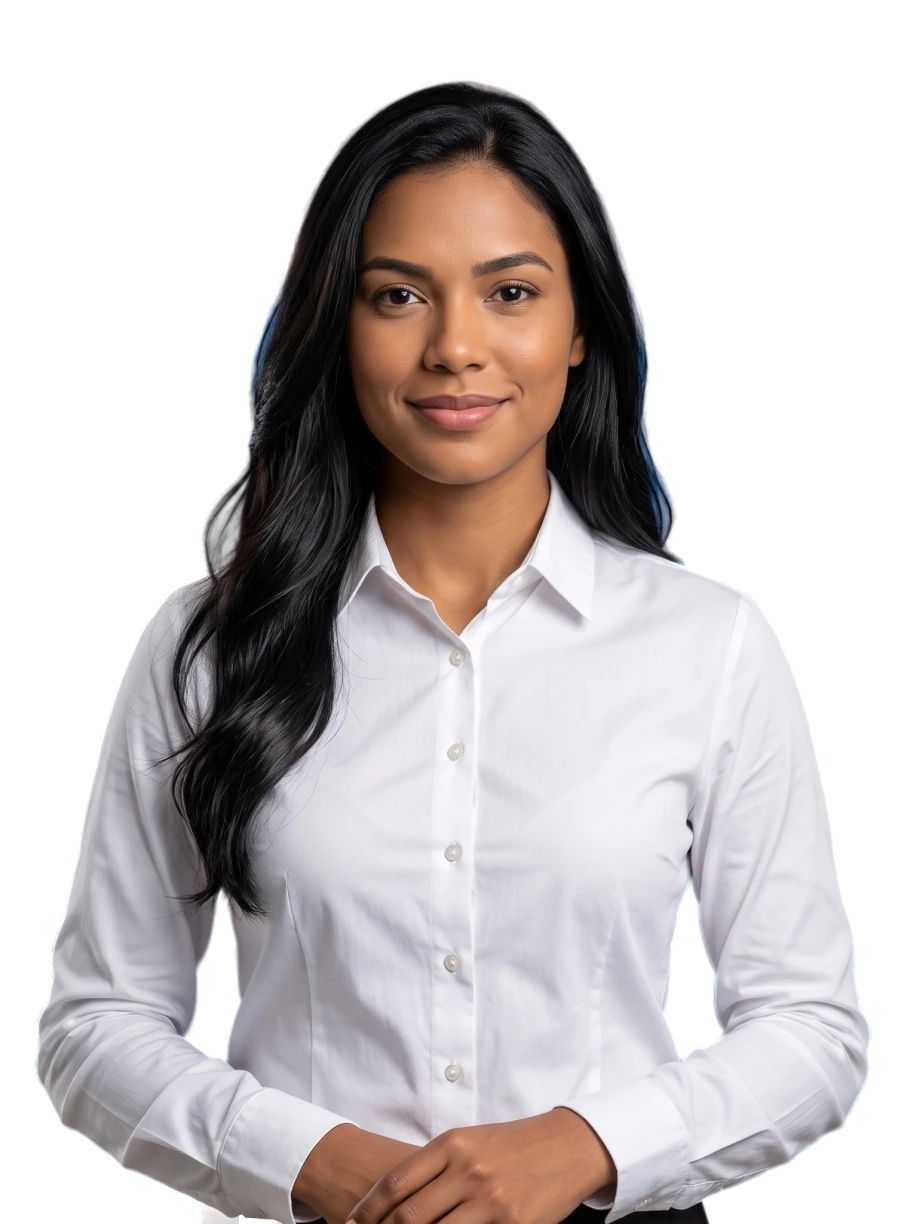
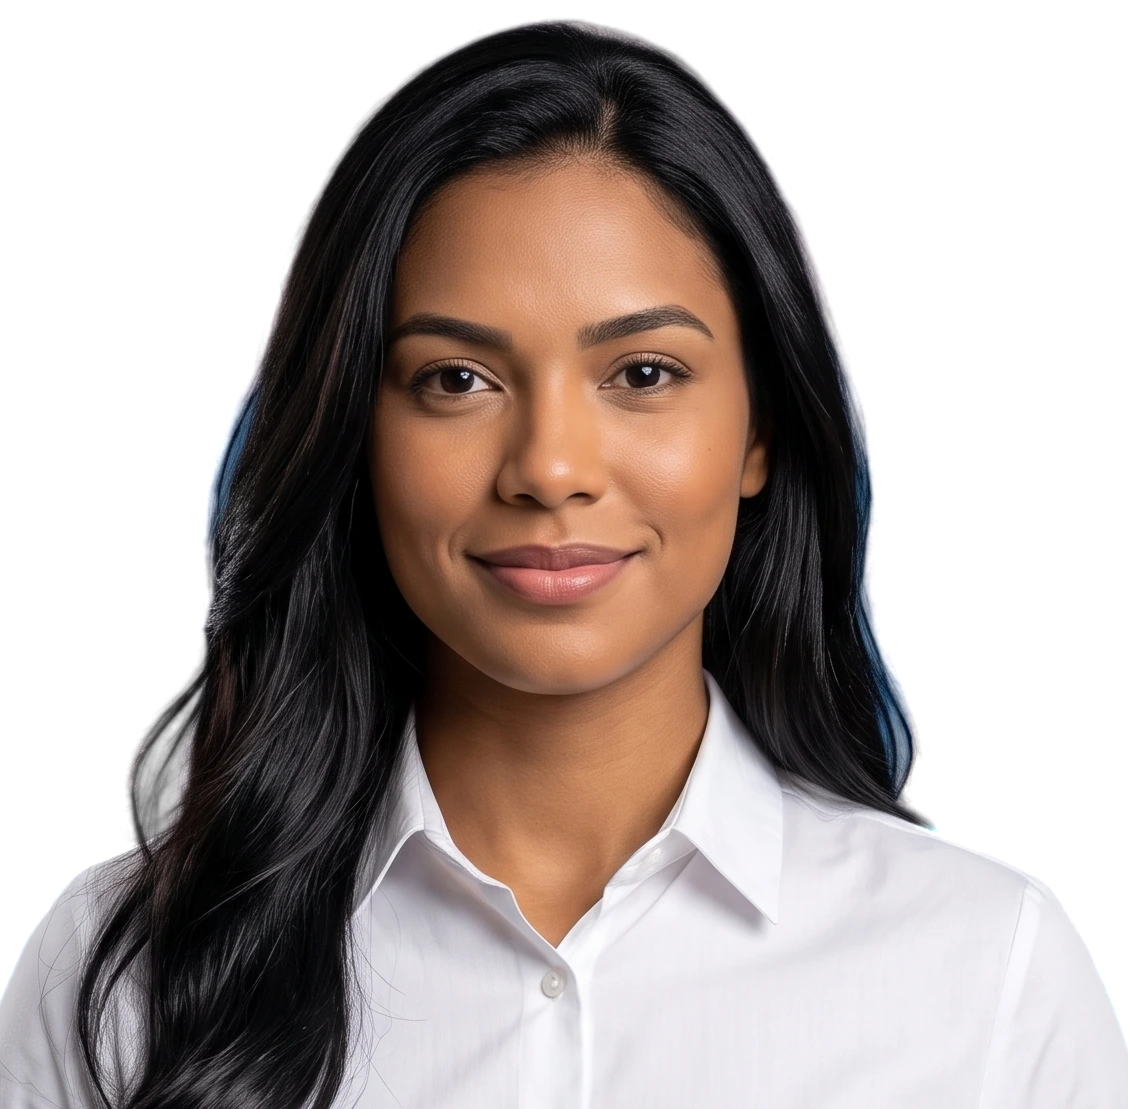
fix: foto do CLT no mesmo enquadramento das outras
No cartão ela aparecia menor que as vizinhas: o gerador enquadrou de mais longe,
e o rosto dela ocupava 21% da largura do quadro contra 27-28% das outras. Com
object-fit: contain isso vira, na tela, uma pessoa menor ao lado de três
maiores.

O alvo não é número cravado — sai da MEDIANA das fotos já publicadas, medida na
mesma execução. Três proporções precisam bater: largura do rosto sobre a largura
do quadro, proporção do quadro e margem acima da cabeça. Mediana e não média
porque o médico destoa (rosto 0,376 contra 0,272 e 0,280), e média de três com
um fora da curva persegue o fora da curva.

Resultado: 1128x1109, rosto 0,280 da largura, quadro 1,017, topo 0,020 — contra
0,272/0,280, 1,017/1,017 e 0,020/0,032 das referências.

O QUE ME FEZ ERRAR PRIMEIRO. Tentei medir a cabeça pela SILHUETA: largura da
linha, procurando o afunilamento do pescoço. Não funciona com cabelo comprido —
o perfil da silhueta da moça cresce sem parar do topo até os ombros, e o "pico
da cabeça" caiu a 981px do topo, já nos ombros. Pior: a versão anterior media
faixas em % da altura VISÍVEL da pessoa, então a régua mudava de lugar no corpo
a cada corte — medir e cortar com ela era perseguir o próprio rabo.

Quem pegou isso foi o conferidor: depois de cortar, o script confere as três
proporções contra a referência e morre em exit 3 se não baterem. Ele reprovou de
verdade ("cab 0.327 vs 0.381"), e foi essa reprovação que mostrou que o
instrumento é que estava errado, não o corte.
[…]

diff --git a/scripts/personas.py b/scripts/personas.py
@@ -76,11 +76,17 @@ TAM_GERADOR_ANTIGO = (1224, 1203)
 # conferi que a reestruturacao deste script nao mudou o resultado delas.
 MAX_LADO = 1224
 
-# `enquadrar` corta o VAZIO das laterais. As tres primeiras ja vinham com a
-# pessoa ocupando a largura toda; na do CLT ela ocupa 68% do quadro, e com
-# object-fit: contain quem manda no tamanho e a LARGURA do cartao — o quadro
-# vazio encolheria a pessoa. Sobra a mesma margem relativa das outras (~3%).
-MARGEM_ENQUADRE = 0.03
+# `enquadrar` iguala o ENQUADRAMENTO ao das outras fotos. A do CLT saiu de outro
+# gerador, de mais longe: a cabeca dela ocupava 33% da largura do quadro contra
+# 35-40% das outras, e com object-fit: contain isso aparece no cartao como uma
+# pessoa menor que as vizinhas.
+#
+# O alvo NAO e numero cravado: sai da media das fotos ja publicadas, medida na
+# mesma execucao. Tres proporcoes precisam bater — largura da cabeca sobre a
+# largura do quadro, proporcao do quadro, e a margem acima da cabeca. Depois de
+# cortar, o script CONFERE as tres e morre em exit 3 se nao baterem, porque
+# enquadramento que so parece certo e o defeito que estamos consertando.
+TOLERANCIA_ENQUADRE = 0.03
 TAM_ESTRELA = 100           # folgado: a estrela mede ~56px
 RAIO_OBRA = 66              # janela reconstruida
 CONTRASTE_MIN_ANTES = 2.0   # abaixo disso a mascara nao esta sobre a marca
@@ -168,6 +174,56 @@ def descontaminar(bgr, alpha):
     return np.where(franja, np.clip(F, 0, 255), C).astype(np.uint8)
 
 
+def metricas_pessoa(rgba):
+    """(topo da cabeca, largura do ROSTO, centro x do rosto), em pixels.
+
+    O tamanho do rosto e o que decide se duas fotos "estao no mesmo
+    enquadramento" — e nao a silhueta. Tentei silhueta primeiro e ela nao serve:
+    a largura da cabeca so se separa dos ombros quando ha um afunilamento no
+    pescoco, e cabelo comprido apaga esse afunilamento. Na foto do CLT o perfil
+    da silhueta cresce sem parar do topo ate os ombros, e o "pico da cabeca"
+    caia a 981px do topo, ja nos ombros.
+
+    Pele por YCrCb resolve: o rosto e a maior regiao de pele da metade de cima.
+    Mede-se a largura MEDIANA no terco superior dessa regiao, que e o rosto sem
+    o pescoco e sem as maos.
+
+    E a medida nao depende do recorte — que e o ponto. A da silhueta dependia:
+    ela usava faixas em % da altura VISIVEL da pessoa, entao mudava de lugar no
+    corpo a cada corte, e o proprio conferidor de enquadre pegou isso.
+    """
+    alpha = rgba[..., 3]
+    op = alpha > 128
+    ys, _ = np.where(op)
+    if ys.size == 0:
+        return None
+    topo = int(ys.min())
+    h, w = alpha.shape
+    a = (alpha[..., None] / 255.0).astype(np.float32)
+    comp = (rgba[..., :3] * a + 128 * (1 - a)).astype(np.uint8)
+    ycc = cv2.cvtColor(comp, cv2.COLOR_BGR2YCrCb)
+    Cr, Cb = ycc[..., 1], ycc[..., 2]
+    pele = ((Cr >= 133) & (Cr <= 175) & (Cb >= 77) & (Cb <= 130) & op).astype(np.uint8)
+    pele = cv2.morphologyEx(pele, cv2.MORPH_OPEN, np.ones((9, 9), np.uint8))
+    pele = cv2.morphologyEx(pele, cv2.MORPH_CLOSE, np.ones((25, 25), np.uint8))
+    n, lab, stats, cent = cv2.connectedComponentsWithStats(pele, 8)
+    cand = [i for i in range(1, n) if cent[i][1] < h * 0.55]
+    if not cand:
+        return None
+    i = max(cand, key=lambda k: stats[k, cv2.CC_STAT_AREA])
+    y0, fh = int(stats[i, cv2.CC_STAT_TOP]), int(stats[i, cv2.CC_STAT_HEIGHT])
+    m = lab == i
+    larg, centros = [], []
+    for y in range(y0, y0 + max(1, int(fh * 0.35))):
+        xs = np.where(m[y])[0]
+        if xs.size:
+            larg.append(int(xs.max() - xs.min() + 1))
+            centros.append((int(xs.max()) + int(xs.min())) / 2.0)
+    if not larg:
+        return None
+    return topo, float(np.median(larg)), float(np.median(centros))
+
+
 def pontos_candidatos(w, h):
     """Onde a estrela pode estar: offset absoluto do gerador antigo e a mesma
     posicao em PROPORCAO, para o caso de a foto ter vindo em outra escala."""
@@ -210,6 +266,7 @@ def main():
     sess = new_session('u2net')
     os.makedirs(DESTINO, exist_ok=True)
     falhou = False
+    referencia = []   # proporcoes das fotos ja publicadas, medidas nesta execucao
     for foto in FOTOS:
         nome, src = foto['nome'], foto['src']
         im = cv2.imread(src)
@@ -255,19 +312,56 @@ def main():
 
         rgba_final = np.dstack([bgr, alpha])
         if foto.get('enquadrar'):
-            xs = np.where((alpha > 128).any(axis=0))[0]
-            if xs.size == 0:
-                print('INSTRUMENTO: %s ficou sem pixel opaco — nada a enquadrar' % nome, file=sys.stderr)
+            if not referencia:
+                print('INSTRUMENTO: nao ha foto de referencia medida antes de %s' % nome, file=sys.stderr)
                 sys.exit(3)
-            m = int(round(MARGEM_ENQUADRE * rgba_final.shape[1]))
-            x0, x1 = max(0, int(xs.min()) - m), min(rgba_final.shape[1], int(xs.max()) + 1 + m)
-            relato += ' | enquadrado x[%d..%d] de %d' % (x0, x1, rgba_final.shape[1])
-            rgba_final = rgba_final[:, x0:x1]
+            m = metricas_pessoa(np.dstack([bgr, alpha]))
+            if m is None:
+                print('INSTRUMENTO: %s ficou sem pessoa para enquadrar' % nome, file=sys.stderr)
+                sys.exit(3)
+            topo, rosto_larg, rosto_cx = m   # nome proprio: cx ja e o da marca d'agua
+            # MEDIANA, nao media: entre as tres referencias o medico destoa
+            # (rosto 0,358 da largura contra 0,272 e 0,278 das outras), e media
+            # de tres com um outlier persegue o outlier.
+            alvo_cab = float(np.median([r['cab'] for r in referencia]))
+            alvo_asp = float(np.median([r['asp'] for r in referencia]))
+            alvo_topo = float(np.median([r['topo'] for r in referencia]))
+            W = rosto_larg / alvo_cab
+            H = W / alvo_asp
+            x0 = int(round(rosto_cx - W / 2)); y0 = int(round(topo - alvo_topo * H))
+            x1 = int(round(x0 + W)); y1 = int(round(y0 + H))
+            H0, W0 = rgba_final.shape[:2]
+            if x0 < 0 or y0 < 0 or x1 > W0 or y1 > H0:
+                print('INSTRUMENTO: o enquadre alvo de %s (%dx%d em x[%d..%d] y[%d..%d]) nao cabe no '
+                      'quadro de %dx%d' % (nome, x1 - x0, y1 - y0, x0, x1, y0, y1, W0, H0), file=sys.stderr)
+                sys.exit(3)
+            rgba_final = rgba_final[y0:y1, x0:x1]
+            relato += ' | enquadrado %dx%d em x[%d..%d] y[%d..%d]' % (x1 - x0, y1 - y0, x0, x1, y0, y1)
         if max(rgba_final.shape[:2]) > MAX_LADO:
             e = MAX_LADO / max(rgba_final.shape[:2])
             rgba_final = cv2.resize(rgba_final, (int(round(rgba_final.shape[1] * e)),
                                                  int(round(rgba_final.shape[0] * e))),
                                     interpolation=cv2.INTER_AREA)
+        # Medidas do quadro FINAL — o que renderiza e ele, nao o intermediario.
+        mf = metricas_pessoa(rgba_final)
+        if mf is None:
+            print('INSTRUMENTO: %s ficou sem pessoa no quadro final' % nome, file=sys.stderr)
+            sys.exit(3)
+        Hf, Wf = rgba_final.shape[:2]
+        prop = {'cab': mf[1] / Wf, 'asp': Wf / Hf, 'topo': mf[0] / Hf}
+        if foto['marca']:
+            referencia.append(prop)
+        else:
+            alvo = {k: float(np.median([r[k] for r in referencia])) for k in prop} if referencia else None
+            if alvo:
+                fora = {k: (prop[k], alvo[k]) for k in prop if abs(prop[k] - alvo[k]) > TOLERANCIA_ENQUADRE}
+                if foto.get('enquadrar') and fora:
+                    print('INSTRUMENTO: %s nao ficou no enquadre das outras: %s (tolerancia %.2f)'
+                          % (nome, ', '.join('%s %.3f vs %.3f' % (k, a_, b_) for k, (a_, b_) in fora.items()),
+                             TOLERANCIA_ENQUADRE), file=sys.stderr)
+                    sys.exit(3)
+        relato += ' | rosto %.3f da largura, quadro %.3f, topo %.3f' % (prop['cab'], prop['asp'], prop['topo'])
+
         saida = os.path.join(DESTINO, nome + '.webp')
         cv2.imwrite(saida, rgba_final, [cv2.IMWRITE_WEBP_QUALITY, 92])
         print('%s %-26s %s | alfa %d%% opaco / %d%% vazio | %d kB'
